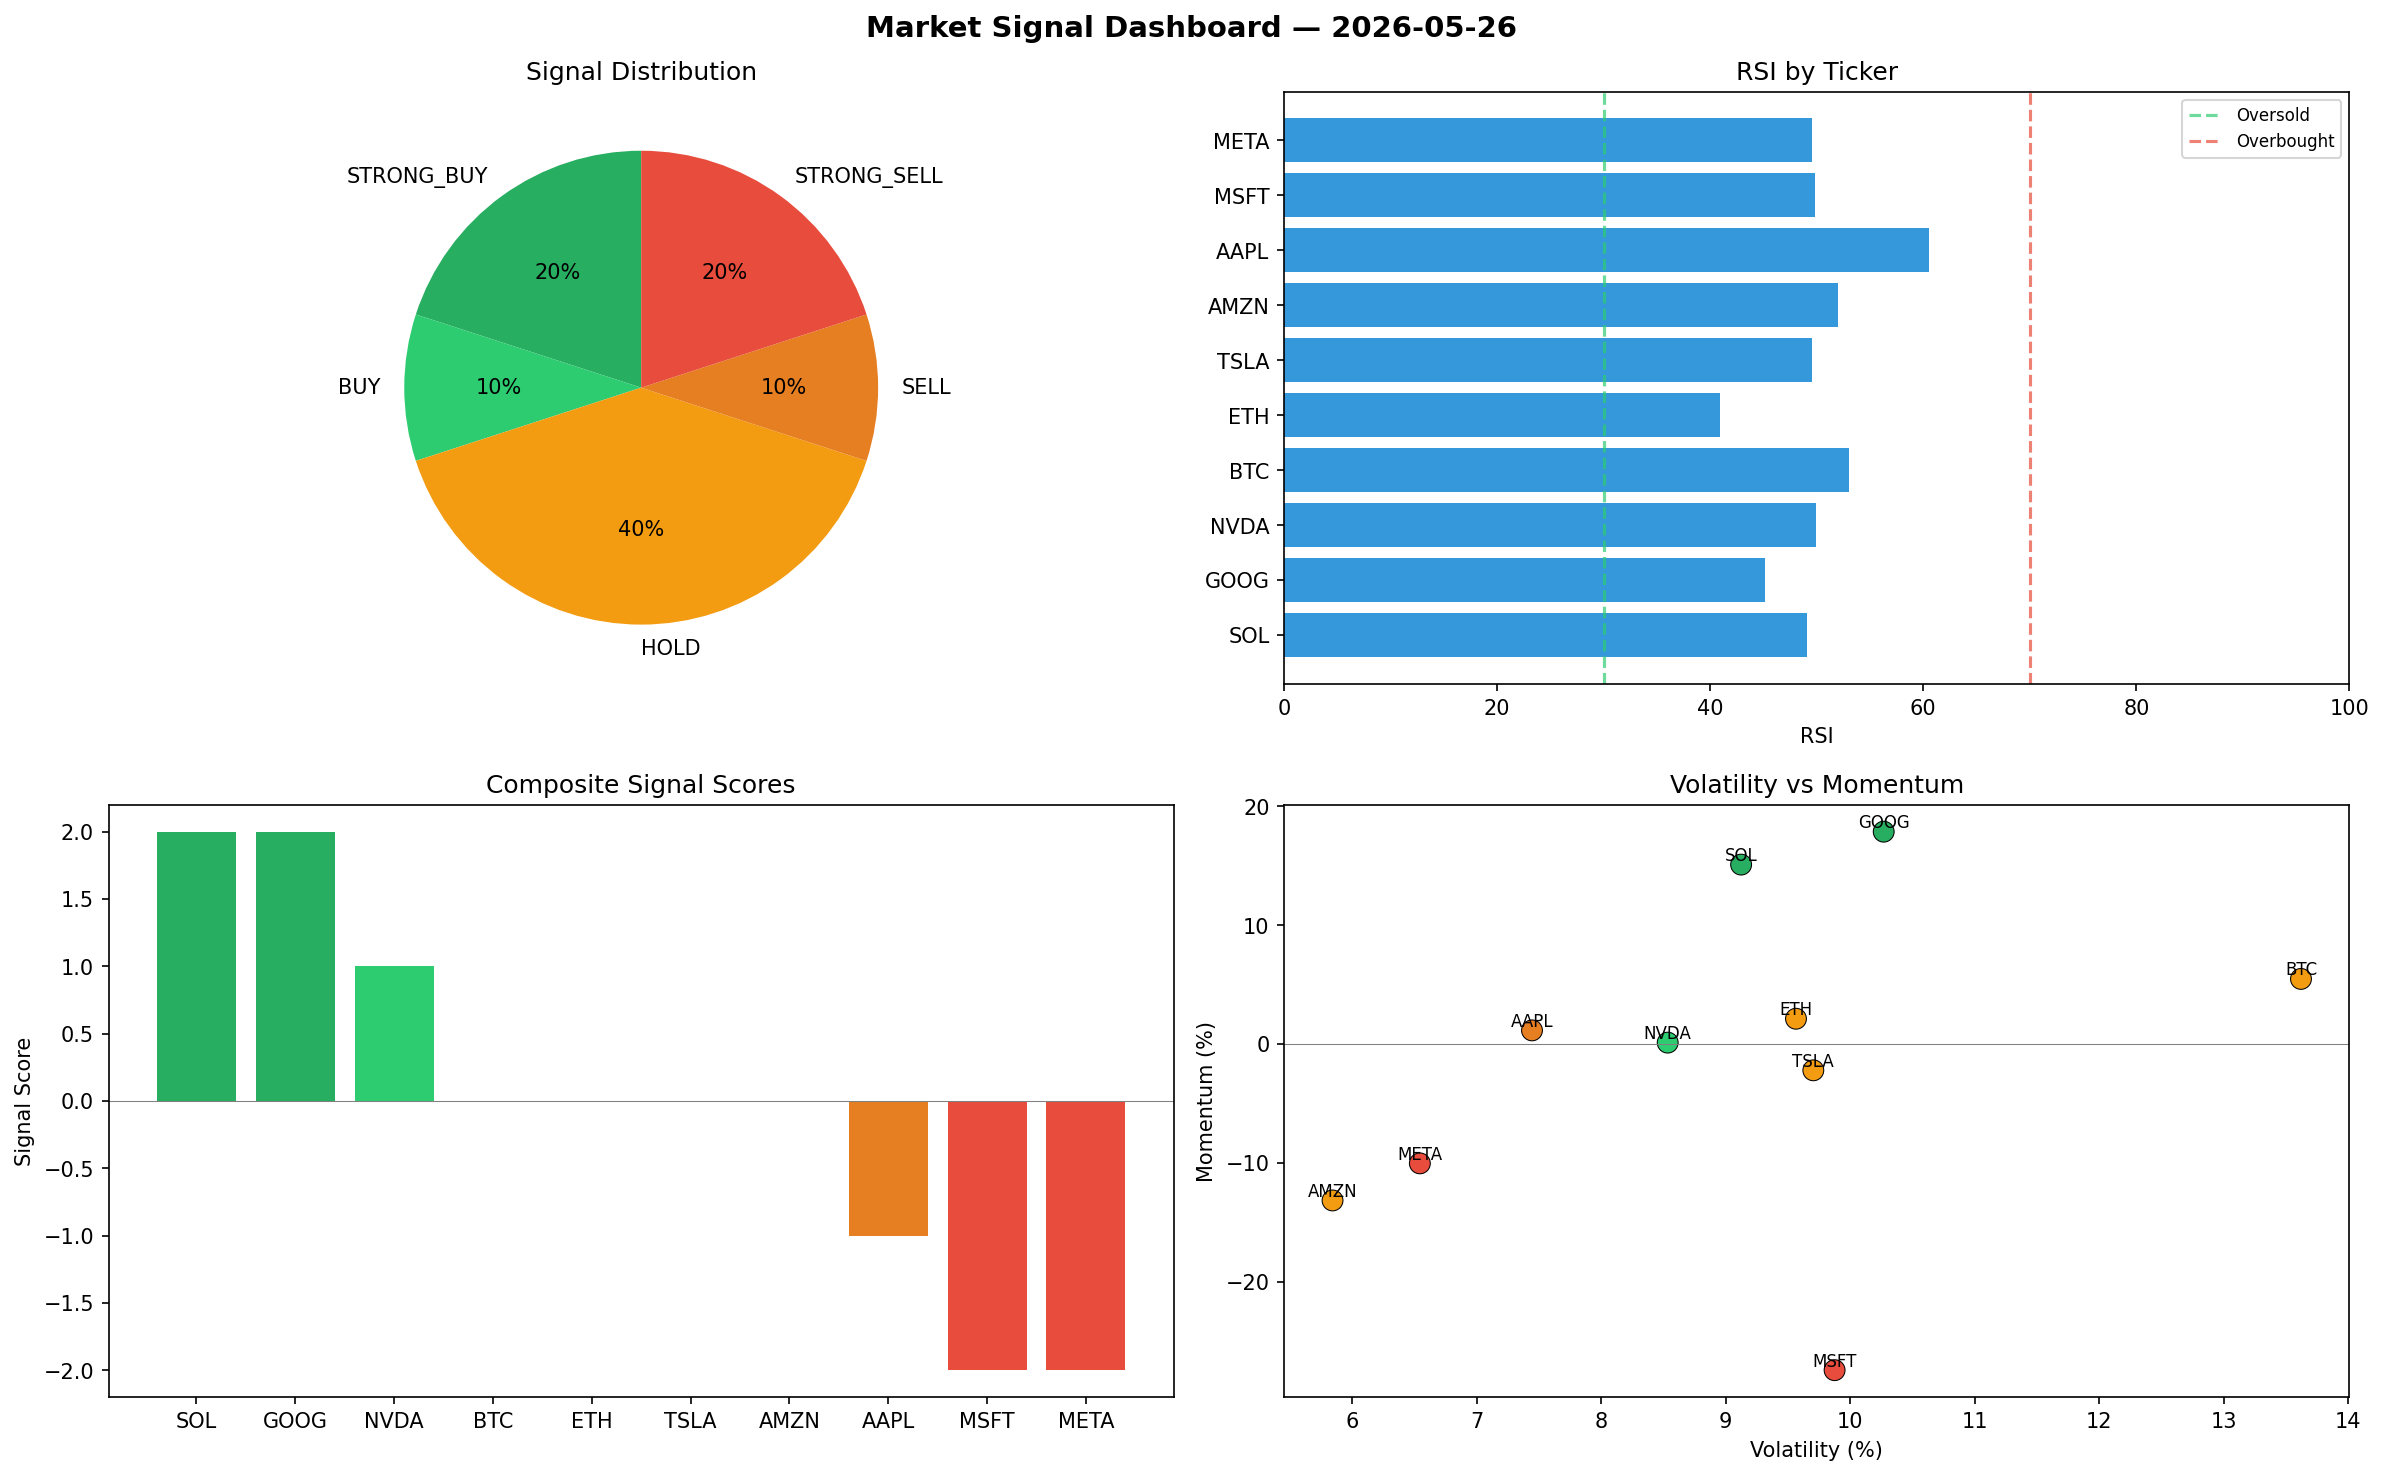
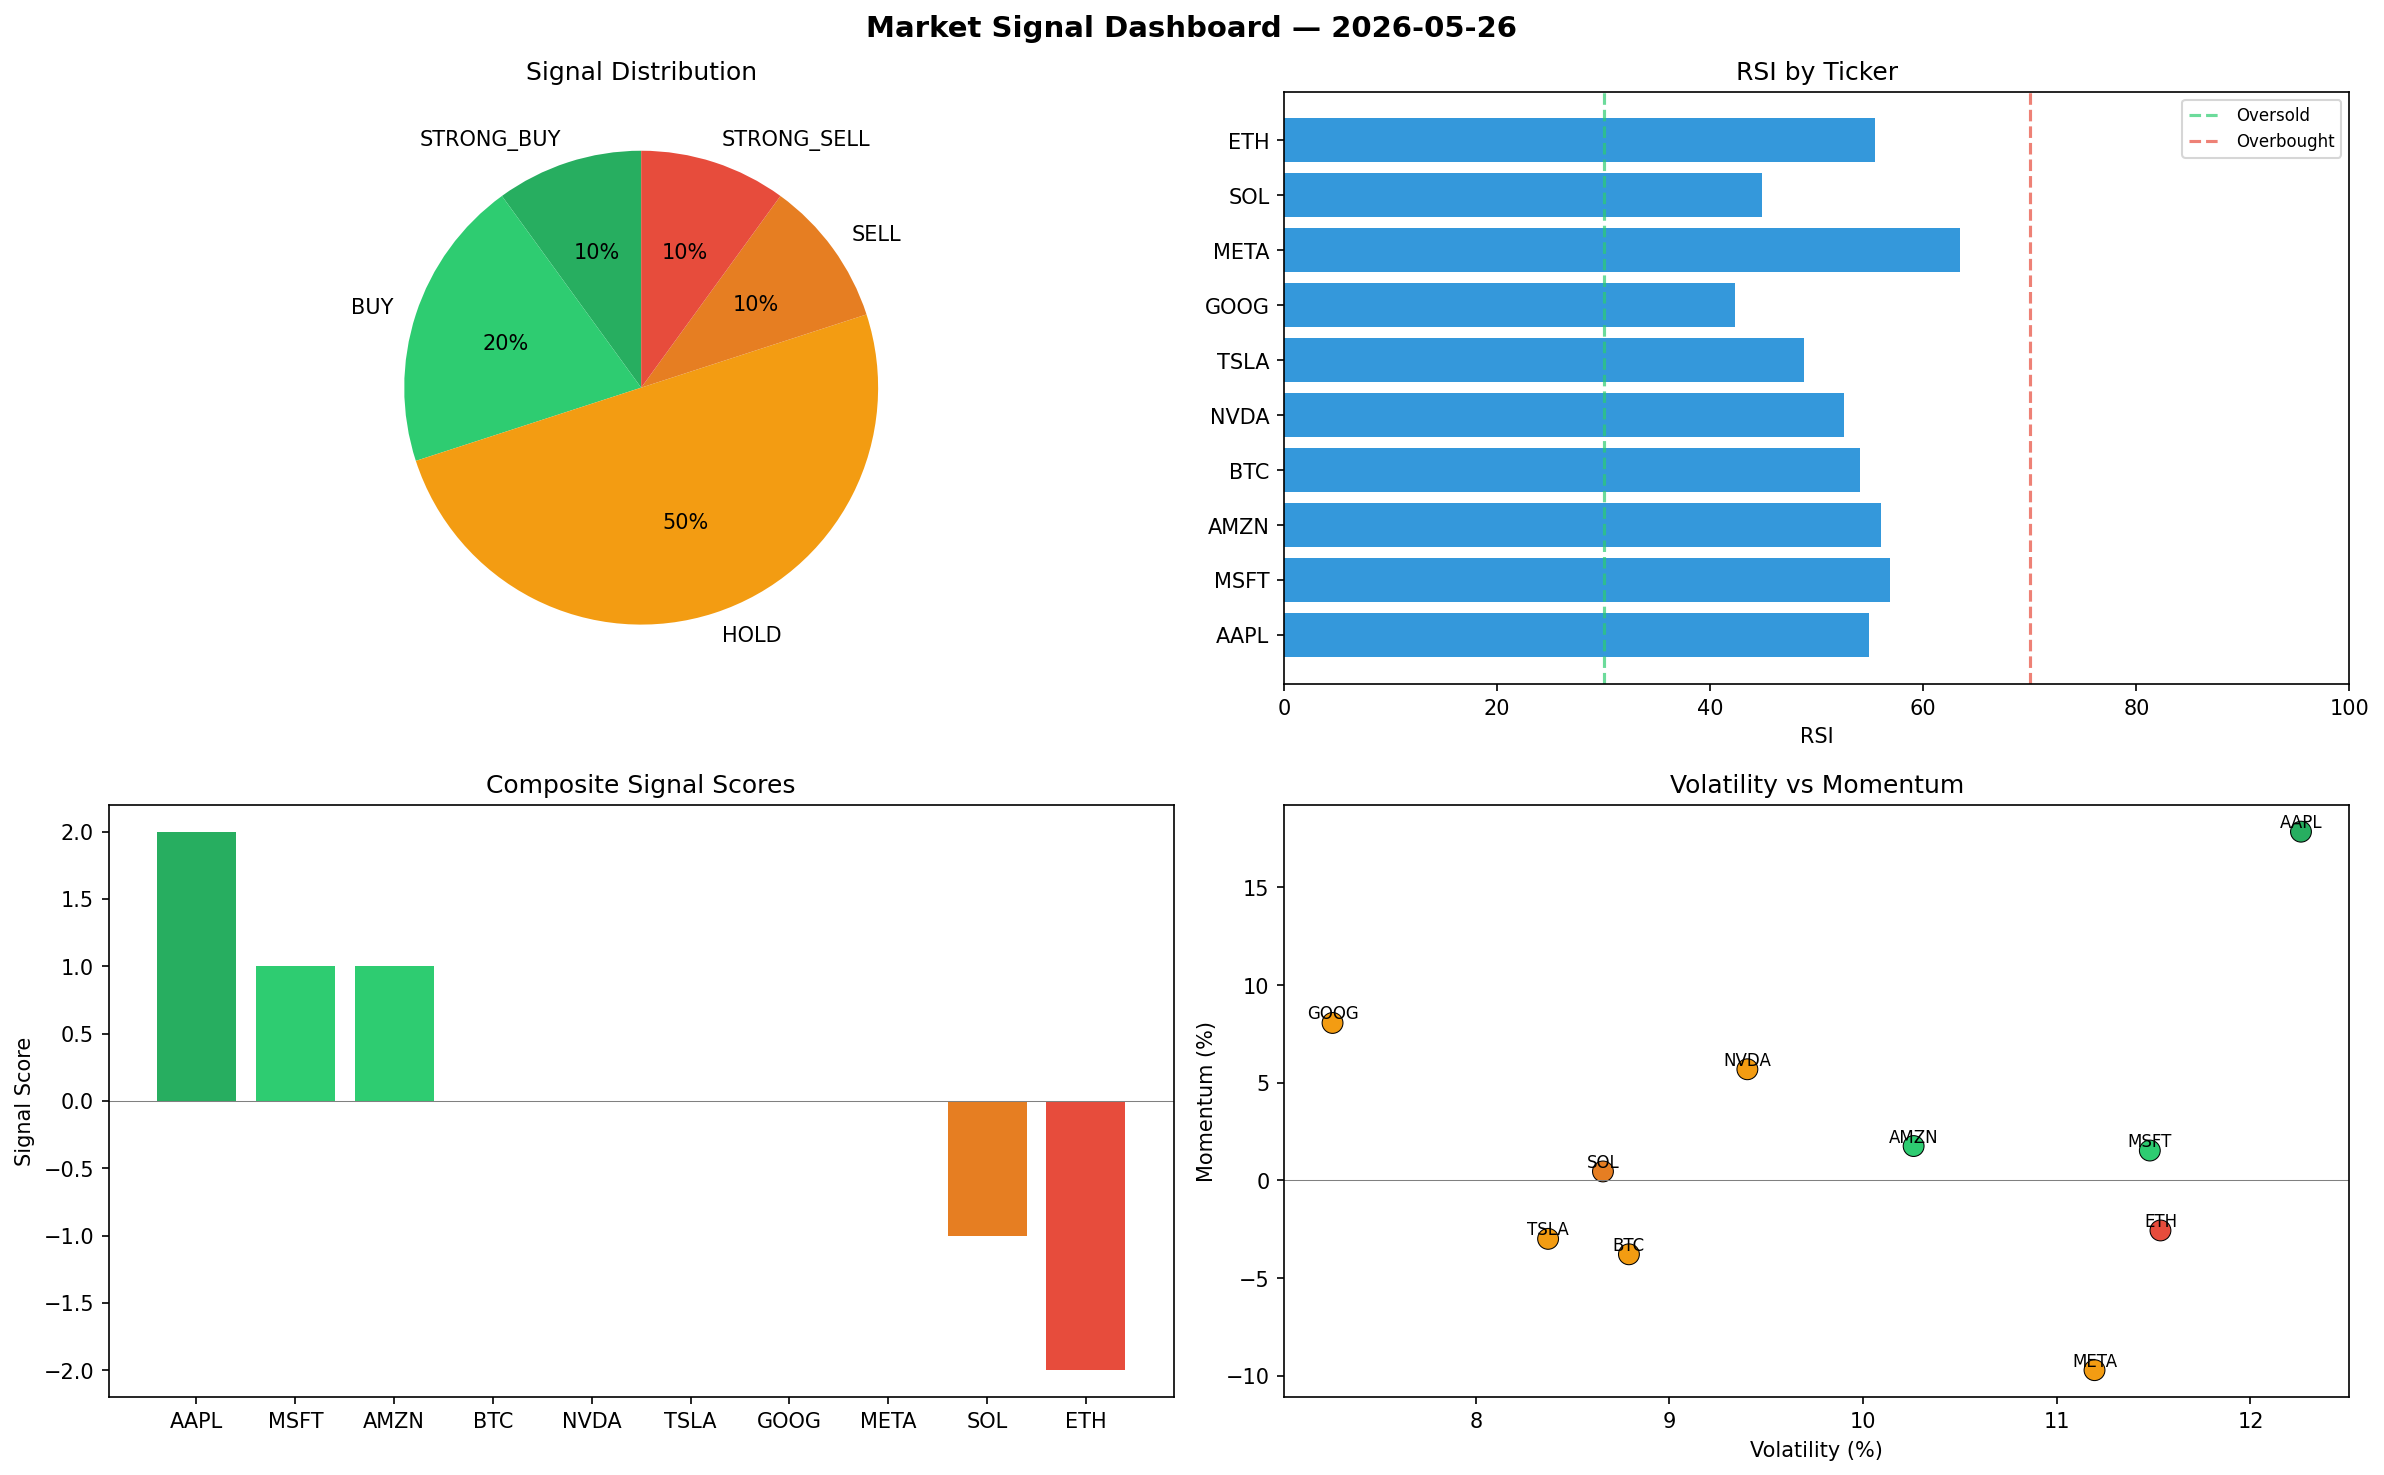
automated-bots: market signals 2026-05-26T17:43

diff --git a/logs/2026-05-26.md b/logs/2026-05-26.md
@@ -1,6 +1,6 @@
 # Market Signal Report — 2026-05-26
 
-**Run ID:** `5e107829f6` | **Buy:** 3 | **Sell:** 3 | **Hold:** 4
+**Run ID:** `80cec416bd` | **Buy:** 3 | **Sell:** 2 | **Hold:** 5
 
 ![Dashboard](2026-05-26_dashboard.png)
 
@@ -8,28 +8,28 @@
 
 | Ticker | Price | Signal | Score | RSI | Momentum | Confidence |
 |--------|-------|--------|-------|-----|----------|------------|
-| SOL | $4686.4 | **STRONG_BUY** | 2 | 49.09 | 0.1509 | 0.5 |
-| GOOG | $814.86 | **STRONG_BUY** | 2 | 45.15 | 0.1786 | 0.5 |
-| NVDA | $4689.03 | **BUY** | 1 | 49.91 | 0.0011 | 0.25 |
-| BTC | $538.36 | **HOLD** | 0 | 53.01 | 0.0547 | 0.0 |
-| ETH | $870.59 | **HOLD** | 0 | 40.91 | 0.0212 | 0.0 |
-| TSLA | $762.78 | **HOLD** | 0 | 49.58 | -0.0222 | 0.0 |
-| AMZN | $1567.7 | **HOLD** | 0 | 52.03 | -0.1317 | 0.0 |
-| AAPL | $1250.55 | **SELL** | -1 | 60.58 | 0.0114 | 0.25 |
-| MSFT | $528.96 | **STRONG_SELL** | -2 | 49.82 | -0.2745 | 0.5 |
-| META | $4209.85 | **STRONG_SELL** | -2 | 49.54 | -0.1005 | 0.5 |
+| AAPL | $5530.91 | **STRONG_BUY** | 2 | 54.86 | 0.1785 | 0.5 |
+| MSFT | $4077.78 | **BUY** | 1 | 56.91 | 0.0153 | 0.25 |
+| AMZN | $2456.93 | **BUY** | 1 | 55.99 | 0.0176 | 0.25 |
+| BTC | $1619.81 | **HOLD** | 0 | 54.04 | -0.0378 | 0.0 |
+| NVDA | $3115.14 | **HOLD** | 0 | 52.51 | 0.0569 | 0.0 |
+| TSLA | $4760.38 | **HOLD** | 0 | 48.79 | -0.0299 | 0.0 |
+| GOOG | $1396.61 | **HOLD** | 0 | 42.37 | 0.0806 | 0.0 |
+| META | $2162.43 | **HOLD** | 0 | 63.48 | -0.0971 | 0.0 |
+| SOL | $2364.61 | **SELL** | -1 | 44.83 | 0.0046 | 0.25 |
+| ETH | $695.58 | **STRONG_SELL** | -2 | 55.5 | -0.0256 | 0.5 |
 
 ## Delta vs Yesterday
 
 | Ticker | Today | Yesterday | Price Change | Signal Changed |
 |--------|-------|-----------|-------------|----------------|
-| SOL | STRONG_BUY | HOLD | 📈 7.04% | ⚠ YES |
-| GOOG | STRONG_BUY | STRONG_BUY | 📉 -69.25% | — |
-| NVDA | BUY | HOLD | 📈 380.11% | ⚠ YES |
-| BTC | HOLD | HOLD | 📉 -81.22% | — |
-| ETH | HOLD | STRONG_SELL | 📉 -66.24% | ⚠ YES |
-| TSLA | HOLD | BUY | 📉 -76.33% | ⚠ YES |
-| AMZN | HOLD | STRONG_BUY | 📉 -73.55% | ⚠ YES |
-| AAPL | SELL | HOLD | 📈 831.23% | ⚠ YES |
-| MSFT | STRONG_SELL | BUY | 📉 -86.49% | ⚠ YES |
-| META | STRONG_SELL | STRONG_SELL | 📈 285.55% | — |
+| AAPL | STRONG_BUY | HOLD | 📈 4018.63% | ⚠ YES |
+| MSFT | BUY | BUY | 📈 4.13% | — |
+| AMZN | BUY | STRONG_BUY | 📉 -58.55% | ⚠ YES |
+| BTC | HOLD | HOLD | 📉 -43.51% | — |
+| NVDA | HOLD | HOLD | 📈 218.96% | — |
+| TSLA | HOLD | BUY | 📈 47.71% | ⚠ YES |
+| GOOG | HOLD | STRONG_BUY | 📉 -47.29% | ⚠ YES |
+| META | HOLD | STRONG_SELL | 📈 98.04% | ⚠ YES |
+| SOL | SELL | HOLD | 📉 -45.99% | ⚠ YES |
+| ETH | STRONG_SELL | STRONG_SELL | 📉 -73.02% | — |
